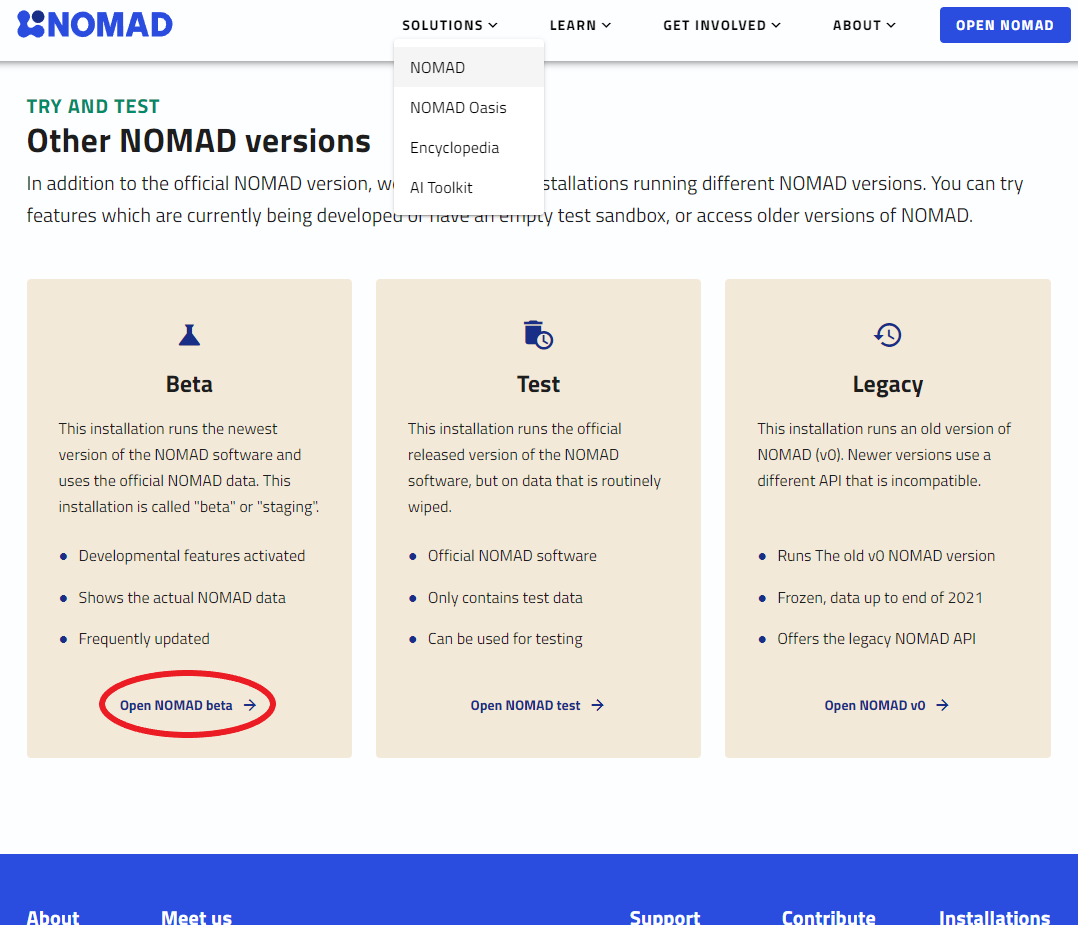
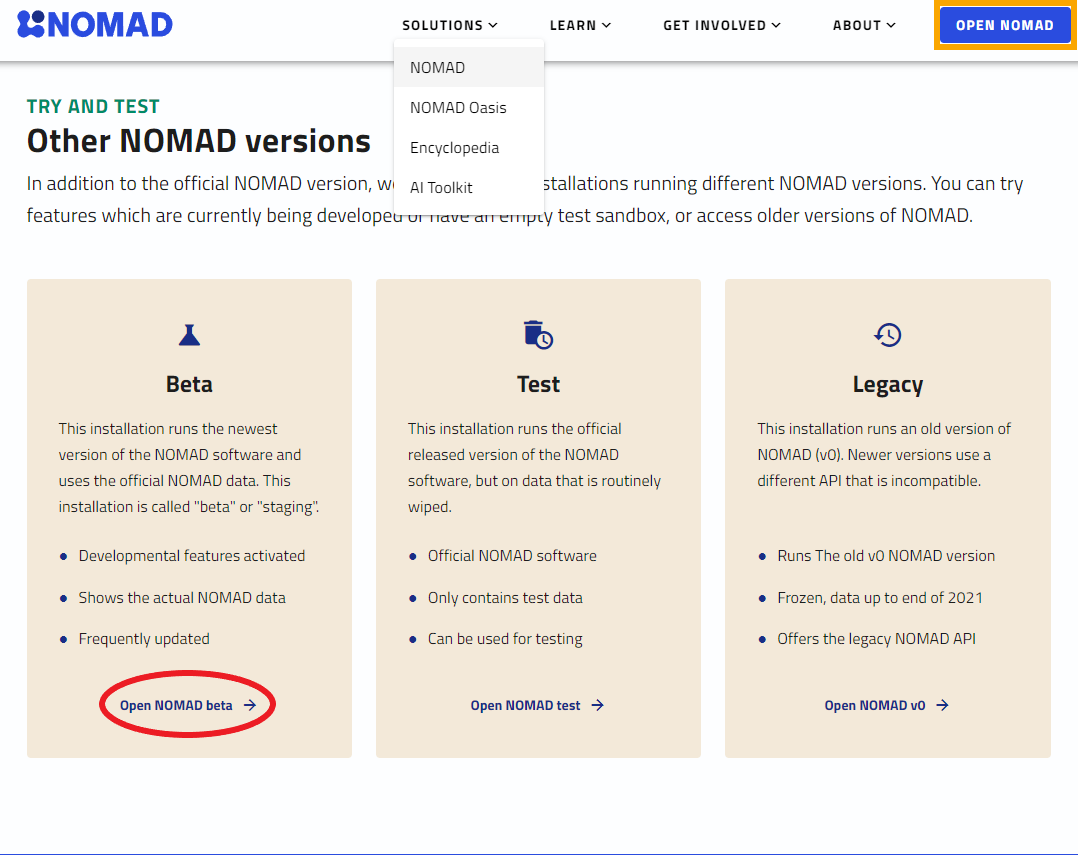
Restructure introduction part I

diff --git a/docs/part1.md b/docs/part1.md
@@ -1,40 +1,8 @@
-# Part I: Overview of the NOMAD Archive and Repository (~40 min)
+# Part I: Overview of the NOMAD Archive and Repository (~60 min)
 
-We start the tutorial with a brief overview of the NOMAD Archive and Repository (in short, NOMAD-lab) A more general tutorial can be found in the [FAIRmat tutorial 1](https://www.fairmat-nfdi.eu/events/fairmat-tutorial-1/tutorial-1-home).
+## Introduction
 
-
-## Exploring NOMAD {#entries_section}
-
-Go to the [NOMAD-lab website](https://nomad-lab.eu/nomad-lab/).
-
-There are 2 main versions when exploring NOMAD-lab: 1. the [stable version](https://nomad-lab.eu/prod/v1/gui/search/entries) ("Open NOMAD" button at the top-right corner of the page), and 2. the [Beta version](https://nomad-lab.eu/prod/v1/staging/gui/search/entries) (`Beta/staging` link at the bottom-right of the page, or via `Solutions > NOMAD` in the top menu and then scrolling down).
-
-<p align="center">
-    <img src="../assets/part1_explore/beta1.png" alt="Finding the Beta in the website, option 1" width="45%" title="NOMAD Beta at the bottom of the website.">
-    <img src="../assets/part1_explore/beta2.png" alt="Finding the Beta in the website, option 2" width="41.5%" title="NOMAD Beta inside Solutions > NOMAD.">
-</p>
-
-We recommend using the Beta version, since the NOMAD infrastructure is constantly being updated.
-
-The landing NOMAD Entries page is a very intuitive and easy-to-use Graphical User Interface (GUI). Here you can explore data according to your preferences by clicking on the filter menus on the left. You can then select a variety of quantities that characterize the Material or system under study, the methodology parameters followed in the calculation or experiment, and the output properties.
-
-<div class="click-zoom">
-    <label>
-        <input type="checkbox">
-        <img src="../assets/part1_explore/explore.png" alt="Explore GUI page" width="90%" title="Exploring entries GUI page.">
-    </label>
-</div>
-<div class="click-zoom">
-    <label>
-        <input type="checkbox">
-        <img src="../assets/part1_explore/materials.png" alt="Materials menu" width="90%" title="Materials filter menu.">
-    </label>
-</div>
-
-<!-- There is a large variety of options to filter data in NOMAD. In this tutorial, you will learn about data for electronic-structure calculations, i.e., data obtained when solving Density Functional Theory (`DFT`), `GW` approximation, Bethe-Salpeter equation (`BSE`), projected tight-binding models (`Projection`), and Dynamical Mean-Field Theory (`DMFT`), as well as in the Properties menu called "Electronic". All of these menus contain (meta)information important for these calculations. If you feel some important quantity is missing, or maybe you want to extend to other electronic-structure techniques, please contact us! -->
-
-
-To get you acquainted with the GUI search in NOMAD, we will be presenting you with a couple of _scenarios_, similar to how you might encounter them in your daily activities.
+In this tutorial, we will get you acquainted with the _Graphical User Interface_ (GUI) in NOMAD, working our way through a couple of _scenarios_, similar to how you might encounter them in your daily activities.
 Each scenario starts with an _assignment box_ explaining the objective and listing the main skills you will acquire.
 They then proceed with a step-by-step walkthrough, with the most essential steps highlighted in boldface.
 
@@ -46,20 +14,55 @@ You can collapse them afterwards.
 When the information contains strategies for steering clear from mistakes, it will be labeled as _warning_.
 Each scenario assumes that you completed the previous ones, or that you are at least familiar with its objectives and terminology introduced.
 
-With the structure clear, let us jump into the [NOMAD page](https://nomad-lab.eu/prod/v1/staging/gui/search/entries?upload_create_time[gte]=1419895487748&upload_create_time[lte]=1694679900000).
-This link will take you to the staging version (latest release version), but only showing results up to September 14th, 2023.
-The constraint ensures that you see the same results as those of the tutorial.
+We start the tutorial with a brief overview of the NOMAD Archive and Repository (in short, NOMAD-lab) A more general tutorial can be found in the [FAIRmat tutorial 1](https://www.fairmat-nfdi.eu/events/fairmat-tutorial-1/tutorial-1-home).
 
-Take a look at the layout.
-Some elements immediately stand out:
+## Navigating to NOMAD {#entries_section}
 
-- In the middle, there is a whole list with tabulated data.
-- Just above it is a search bar with the text "Type your query or keyword here".
-- On the left-hand side is a "FILTERS" _side menu_.
-- At the very top is a header with several options (left-hand side), login and units (right-hand).
+With the structure clear, let us jump into the NOMAD website.
+Only... there are several access points.
+The general [_landing page_](https://nomad-lab.eu/nomad-lab/) will give you and quick rundown of the _NOMAD Archive and Repository_, as wells as it features.
+Furthermore, it provides several links to documentation, tutorials, and the history behind the project.
+
+When accessing the data, however, we want to locate the _Archive and Repository_ itself.
+There are 2 public versions available:
+1. [stable](https://nomad-lab.eu/prod/v1/gui/search/entries), as the default, under "Open NOMAD" (highlighted orange).
+2. the [beta /staging](https://nomad-lab.eu/prod/v1/staging/gui/search/entries), which has the latest release and updates much more frequently. As such, it could also harbor unstable or untested features.
+
+Unless anything breaks, we recommend using the beta version.
+It has links at the bottom-right corner of the landing page, as well as under "SOLUTIONS" > "NOMAD" > "Try and Test" (highlighted red).
+
+<div class="image-container">
+    <div class="click-zoom">
+        <label>
+            <input type="checkbox">
+            <img src="../assets/part1_explore/beta1.png" width="45%" title="NOMAD Beta at the bottom of the website.">
+        </label>
+    </div>
+    <div class="click-zoom">
+        <label>
+            <input type="checkbox">
+            <img src="../assets/part1_explore/beta2.png" width="45%" title="NOMAD Beta inside Solutions > NOMAD.">
+        </label>
+    </div>
+</div>
+
+To ensure the long-term reproducibility of this tutorial, we provide you with a link to the beta / staging version, but capped at September 14th, 2023.
+Please visit this [NOMAD page](https://nomad-lab.eu/prod/v1/staging/gui/search/entries?upload_create_time[gte]=1419895487748&upload_create_time[lte]=1694679900000) and take a look at its layout.
 
 As denoted at the top left, the page we have in front of us is called _Entries_.
 When loading the page, you should also see an orange box in the left-bottom corner, warning you that you are using an experimental product. You can get rid of it by clicking the check mark (`✓`).
+
+Some other layout elements worth mentioning:
+
+- In the middle, there is a whole list with _tabulated data_.
+- Just above it is a _search bar_ with the text "Type your query or keyword here".
+- On the left-hand side is a "FILTERS" _side menu_.
+- At the very top is a _header_ with several options (left-hand side), _login_ and _units_ (right-hand).
+
+The NOMAD Entries page is an intuitive, easy-to-use GUI.
+Here you can explore data according to your preferences by clicking on the filter menus on the left.
+You can then select a variety of quantities that characterize the material or system under study, the methodology parameters followed in the calculation or experiment, and the output properties.
+
 Now, let us move on to the actual scenarios.
 
 ### Scenario 1 - Example setup
